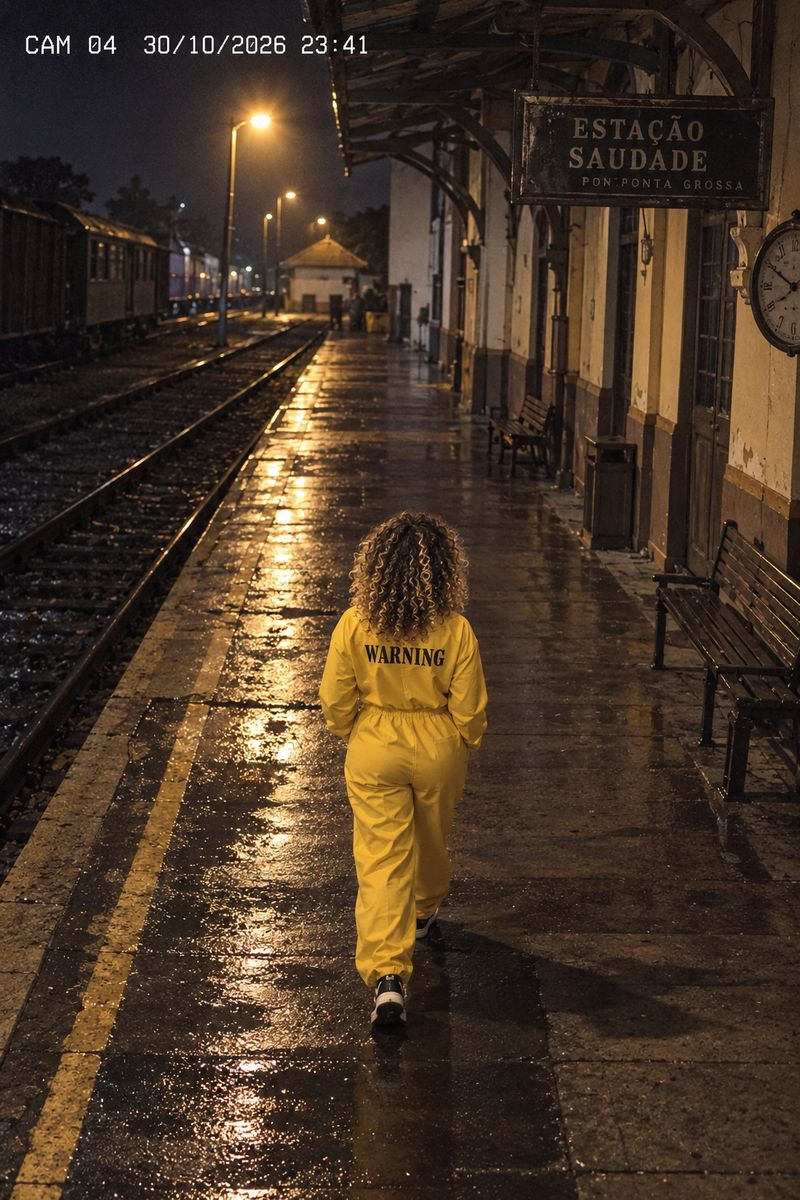
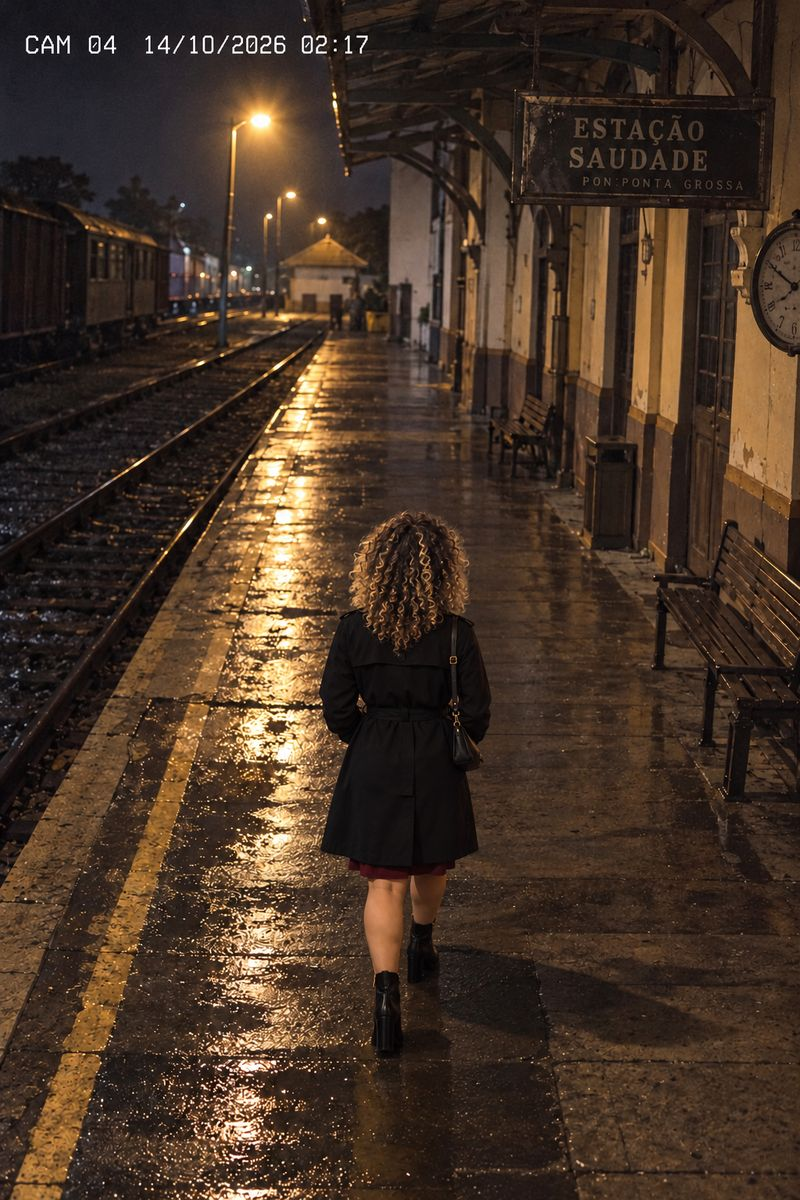
Dress Nati as a civilian before the arrest and make M-29 match Murillo

diff --git a/index.html b/index.html
@@ -6,9 +6,9 @@
   <meta name="theme-color" content="#19140f">
   <meta name="description" content="Arquivo 031. Operação Tentação Fatal. Alvo: Nati. Agente responsável: M-29. Acesso restrito.">
   <title>Arquivo 031 — Operação Tentação Fatal</title>
-  <link rel="stylesheet" href="styles.css?v=9">
+  <link rel="stylesheet" href="styles.css?v=10">
   <script src="vendor/page-flip.browser.js" defer></script>
-  <script src="app.js?v=9" defer></script>
+  <script src="app.js?v=10" defer></script>
 </head>
 <body>
   <header class="archive-header">
@@ -61,7 +61,7 @@
             <div class="page-inner">
               <div class="folio"><span>ARQUIVO 031 / ANEXO FOTOGRÁFICO</span><span>02-A</span></div>
               <p class="document-label">LOCAL DO PRIMEIRO CORPO / QUARTO 107</p>
-              <figure class="annex-photo"><span class="paperclip" aria-hidden="true"></span><img src="assets/cena-01-hospedagem.jpg" alt="Nati, de costas, de macacão amarelo, diante da porta do quarto 107 isolada com fita policial e marcadores de evidência" draggable="false" loading="lazy"><figcaption>FIG. 02-A / ELA VOLTOU AO LOCAL</figcaption></figure>
+              <figure class="annex-photo"><span class="paperclip" aria-hidden="true"></span><img src="assets/cena-01-hospedagem.jpg" alt="Nati, de costas, de sobretudo preto, diante da porta do quarto 107 isolada com fita policial e marcadores de evidência" draggable="false" loading="lazy"><figcaption>FIG. 02-A / ELA VOLTOU AO LOCAL</figcaption></figure>
               <p class="pencil-note">Ela voltou.<br>Ninguém a impediu.</p>
               <div class="sheet-footer"><span>IMAGEM RECUPERADA / AUTORIA DESCONHECIDA</span><span>031 / 02-A</span></div>
             </div>
@@ -74,6 +74,16 @@
               <figure class="annex-photo"><span class="paperclip" aria-hidden="true"></span><img src="assets/crime-01-quarto.jpg" alt="Quarto de hospedagem com lençóis manchados de sangue, marca de mão na parede, dois copos e uma caixa de relógio vazia, com marcadores de evidência" draggable="false" loading="lazy"><figcaption>FIG. 02-B / DOIS COPOS. UM COM BATOM.</figcaption></figure>
               <p class="pencil-note">A caixa do relógio<br>estava vazia.</p>
               <div class="sheet-footer"><span>LAUDO PERICIAL EM ANDAMENTO</span><span>031 / 02-B</span></div>
+            </div>
+          </section>
+
+          <section class="page annex-page" data-title="Anexo: a estação" data-label="ANEXO 02-C">
+            <div class="page-inner">
+              <div class="folio"><span>ARQUIVO 031 / ANEXO FOTOGRÁFICO</span><span>02-C</span></div>
+              <p class="document-label">ESTAÇÃO SAUDADE / CÂMERA 04</p>
+              <figure class="annex-photo"><span class="paperclip" aria-hidden="true"></span><img src="assets/cena-02-estacao.jpg" alt="Câmera de vigilância: Nati, de costas, de sobretudo preto, caminha sozinha pela plataforma da Estação Saudade de madrugada" draggable="false" loading="lazy"><figcaption>FIG. 02-C / A DESCRIÇÃO DA TESTEMUNHA</figcaption></figure>
+              <p class="pencil-note">Foi aqui que ela<br>ganhou um nome.</p>
+              <div class="sheet-footer"><span>IMAGEM CEDIDA PELA ADMINISTRAÇÃO DA ESTAÇÃO</span><span>031 / 02-C</span></div>
             </div>
           </section>
 
@@ -161,7 +171,7 @@
             <div class="page-inner">
               <div class="folio"><span>ARQUIVO 031 / ANEXO FOTOGRÁFICO</span><span>07-A</span></div>
               <p class="document-label">RODOVIA / CAMPOS GERAIS / 30 OUT</p>
-              <figure class="annex-photo"><span class="paperclip" aria-hidden="true"></span><img src="assets/cena-04-fuga.jpg" alt="Nati, de costas, de macacão amarelo, caminha de braço dado com M-29, de jaqueta do FBI, em direção a um carro numa estrada com neblina" draggable="false" loading="lazy"><figcaption>FIG. 07-A / ÚLTIMO REGISTRO DOS DOIS</figcaption></figure>
+              <figure class="annex-photo"><span class="paperclip" aria-hidden="true"></span><img src="assets/cena-04-fuga.jpg" alt="Nati, de costas, de sobretudo preto, caminha de braço dado com M-29, de jaqueta do FBI, em direção a um carro numa estrada com neblina" draggable="false" loading="lazy"><figcaption>FIG. 07-A / ÚLTIMO REGISTRO DOS DOIS</figcaption></figure>
               <p class="pencil-note">Ele não estava<br>conduzindo ninguém.</p>
               <div class="sheet-footer"><span>IMAGEM DE MOTORISTA NÃO IDENTIFICADO</span><span>031 / 07-A</span></div>
             </div>
@@ -206,7 +216,7 @@
 
     <nav class="reader-controls" aria-label="Navegação do dossiê">
       <button type="button" id="previous" aria-label="Página anterior" disabled><span aria-hidden="true">←</span><span>ANTERIOR</span></button>
-      <div class="reader-position"><span id="page-name">CAPA</span><div class="page-dots" aria-hidden="true"><i class="active"></i><i></i><i></i><i></i><i></i><i></i><i></i><i></i><i></i><i></i><i></i><i></i><i></i><i></i><i></i><i></i></div></div>
+      <div class="reader-position"><span id="page-name">CAPA</span><div class="page-dots" aria-hidden="true"><i class="active"></i><i></i><i></i><i></i><i></i><i></i><i></i><i></i><i></i><i></i><i></i><i></i><i></i><i></i><i></i><i></i><i></i></div></div>
       <button type="button" id="next" aria-label="Abrir dossiê"><span id="next-label">ABRIR</span><span aria-hidden="true">→</span></button>
     </nav>
     <p class="reader-hint">Toque na folha ou deslize para virar.<span> Também pelas teclas ← →</span></p>
